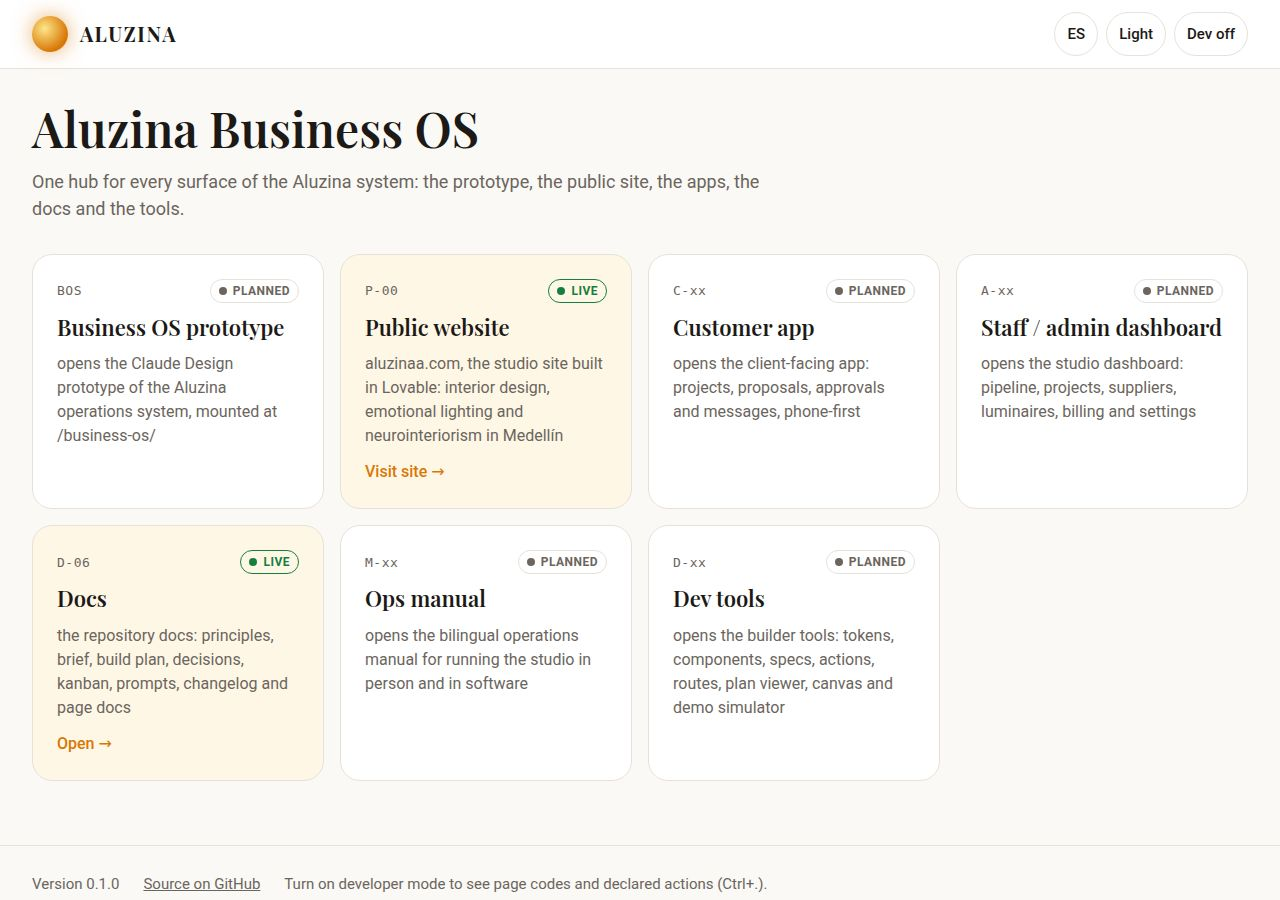
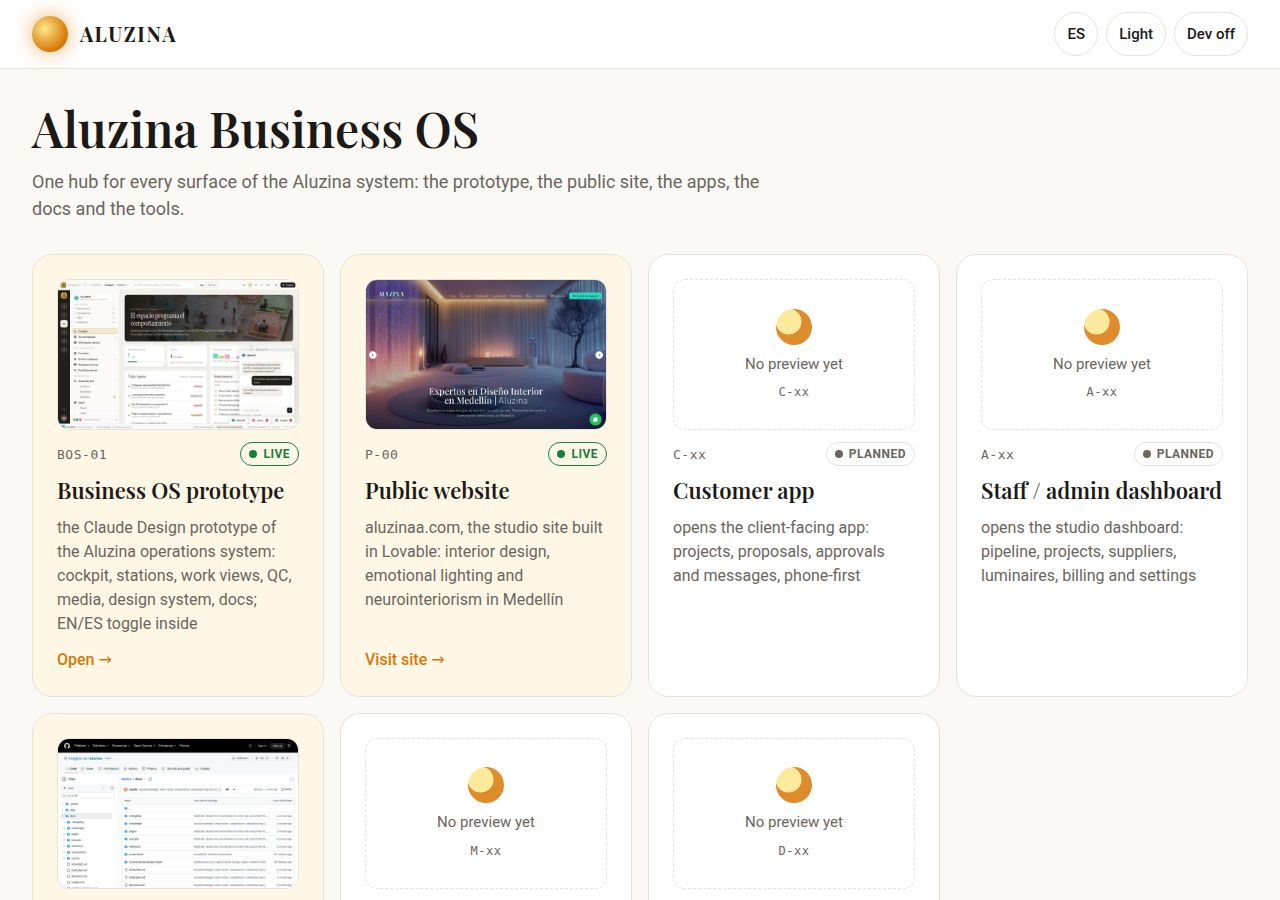
docs(HUB-01): refresh screenshots with thumbnails
Live captures of https://imagine-os.github.io/aluzina/ at 1280 and 390 (EN,
light) after deploy run 35545531282 put the deploy-time thumbnails on every
card; routes.json updated. Changelog 0005 "Verified" filled in (run, manifest
HTTP 200, 9 real captures).

Claude-Session: https://claude.ai/code/session_01EKb7UhDFvjmP9ZAtNHs7a9

diff --git a/docs/changelog/0005-hub-thumbnails-and-knowledge-base.md b/docs/changelog/0005-hub-thumbnails-and-knowledge-base.md
@@ -29,4 +29,6 @@ Local captures use a browser without a proxy (Playwright's launch-level proxy ro
 
 ## Verified
 
-Filled in after the deploy: Actions run, `thumbs/manifest.json` HTTP 200, live hub screenshots at 1280 and 390 in `docs/screenshots/HUB-01/`.
+- Pages deploy: workflow run [35545531282](https://github.com/imagine-os/aluzina/actions/runs/35545531282) on 98e1b1e, `build` (incl. `npx playwright install --with-deps chromium` + `npm run thumbs`) and `deploy` success, ~2.5 min end to end.
+- https://imagine-os.github.io/aluzina/thumbs/manifest.json -> HTTP 200, `generatedAt` 2026-09-20T23:45:34Z, 9 items, all real captures (`source` = the captured URL, no `placeholder`); `thumbs/HUB-01.jpg` 200 (34 KB), `thumbs/BOS-01.jpg` 200 (45 KB), `thumbs/P-00.jpg` 200 (34 KB); https://imagine-os.github.io/aluzina/ -> 200.
+- Live screenshots with thumbnails: `docs/screenshots/HUB-01/en-1280.jpg`, `en-390.jpg` (+ `routes.json`), replacing the changelog 0002 captures at those widths.
